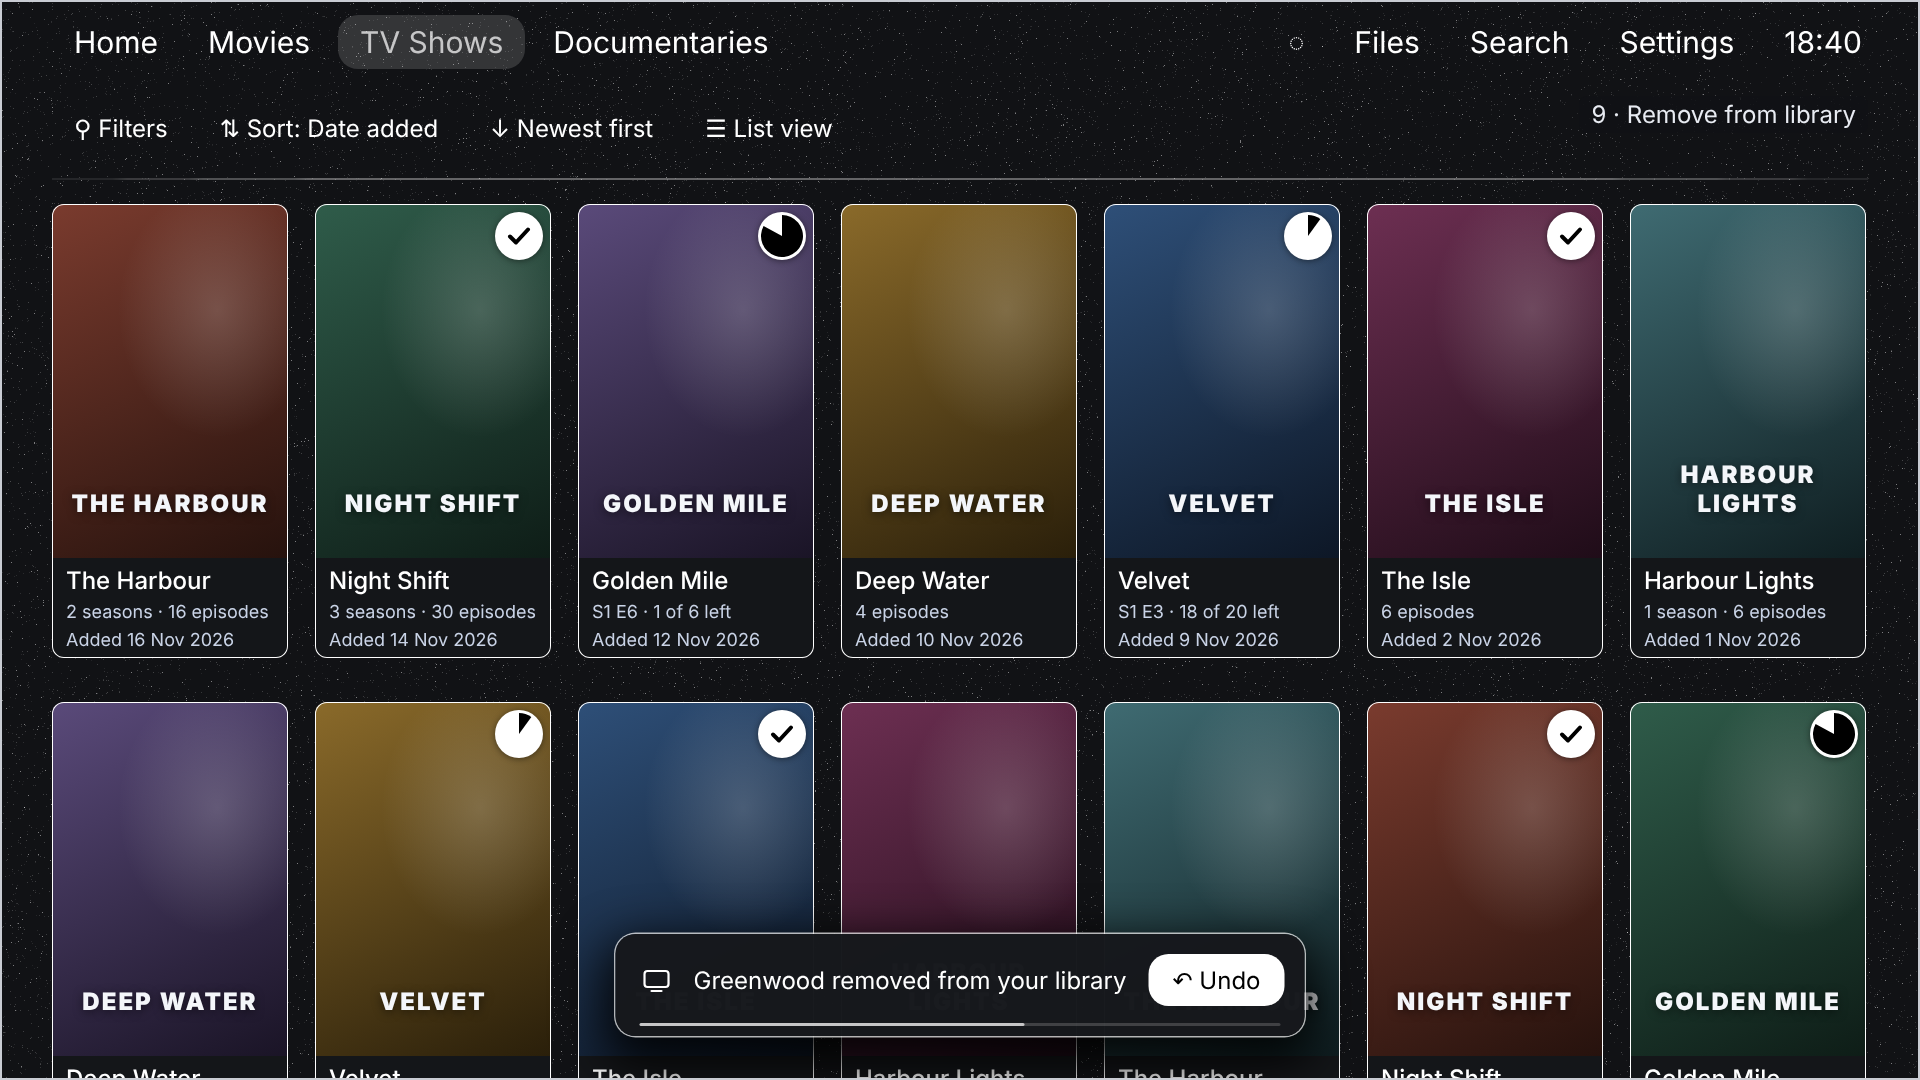
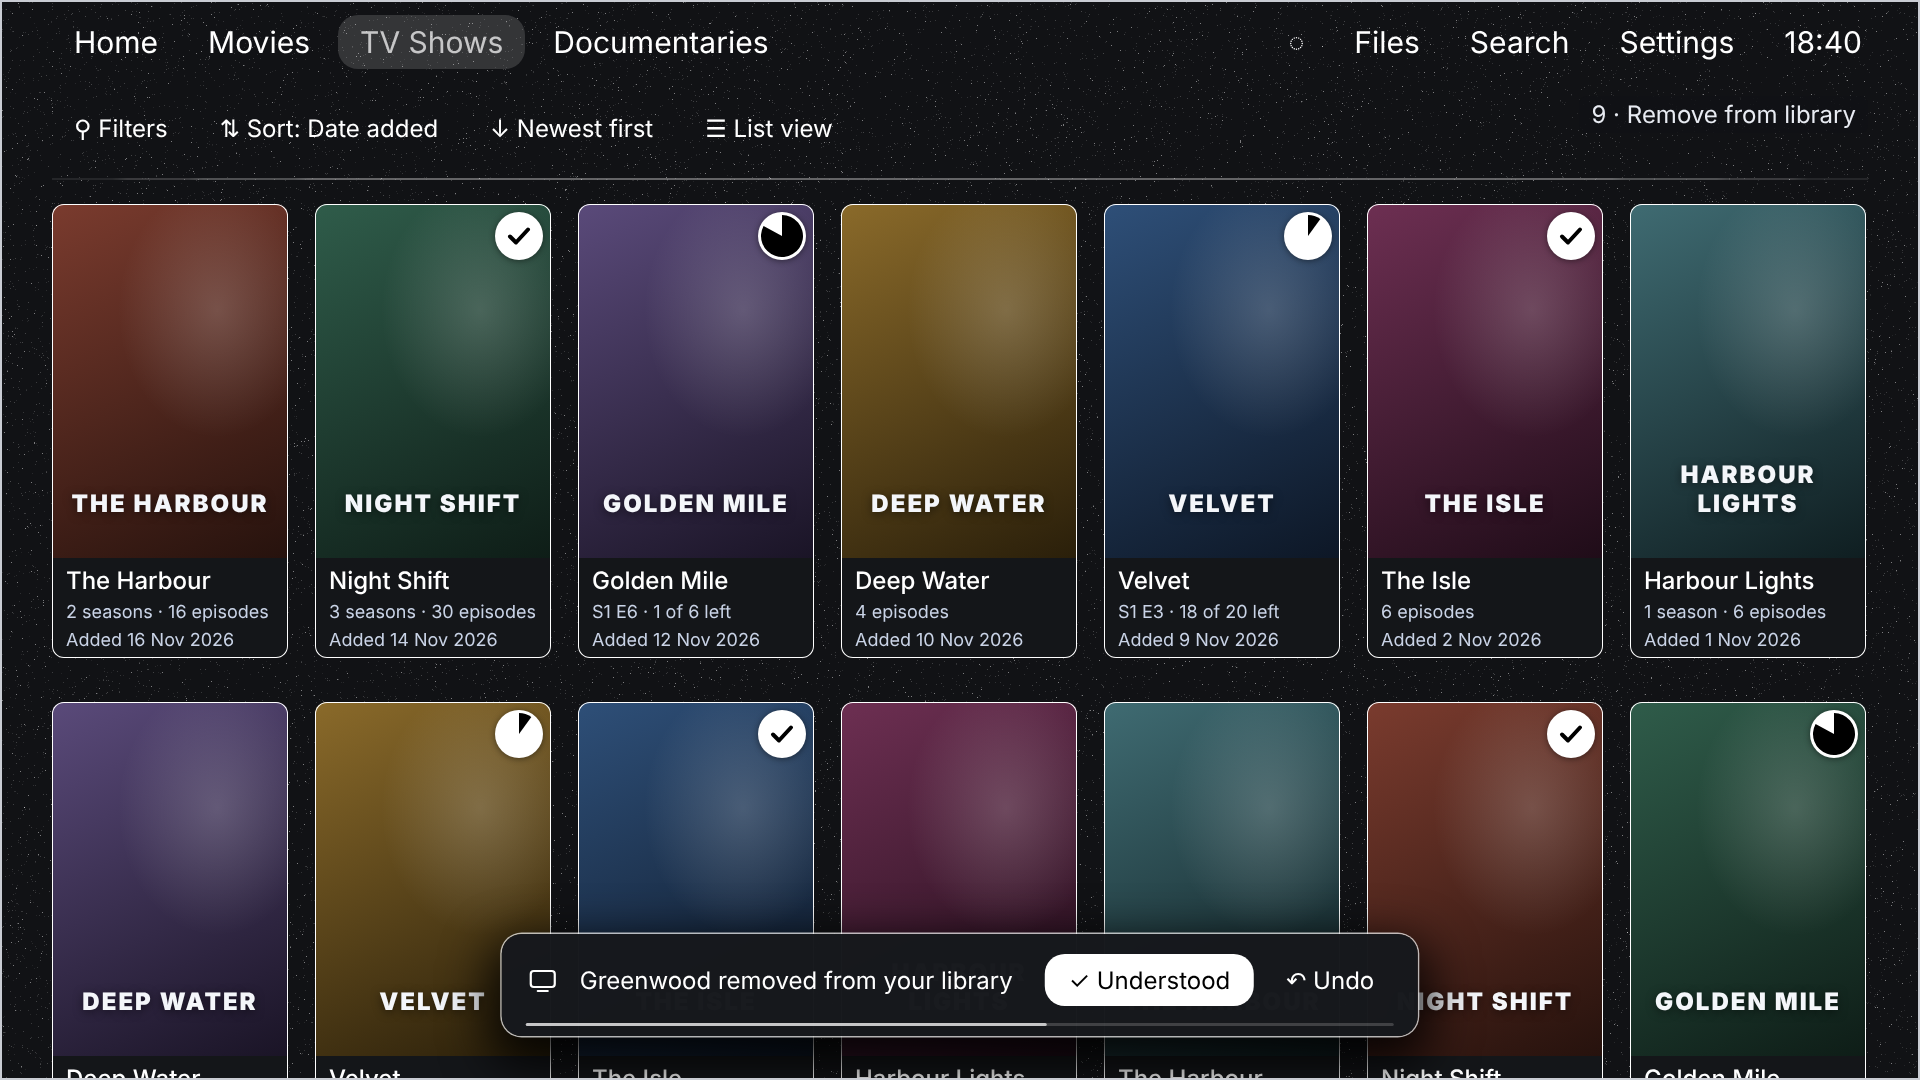
Undo notice: Understood (focused) and Undo (owner)
Claude-Session: https://claude.ai/code/session_01FtDZqYQTGsHUL41wBkAMmc

Changed region(s): [[0.25, 0.8556, 0.75, 1.0]]

diff --git a/docs/design/proposals/rows-captions/undo-tv.html b/docs/design/proposals/rows-captions/undo-tv.html
@@ -41,7 +41,9 @@ body{background:#111215;font-family:Roboto,Inter,Arial,sans-serif;width:1920px}
 .cap2{position:absolute;left:52px;bottom:24px;color:#e8ebf2;font-size:24px;z-index:21;background:rgba(17,18,21,.85);padding:4px 12px;border-radius:8px}
 .toast{position:absolute;left:50%;bottom:44px;transform:translateX(-50%);display:flex;align-items:center;gap:22px;padding:20px 20px 30px 26px;border-radius:20px;background:rgba(22,24,28,.99);z-index:12;
  box-shadow:0 0 0 1.5px rgba(255,255,255,.7),0 18px 48px 12px rgba(0,0,0,.85);color:#fff;font-size:24px;white-space:nowrap}
-.toast .u{height:52px;padding:0 24px;border-radius:20px;background:#fff;color:#000;display:flex;align-items:center;gap:10px}
+.toast .u{height:52px;padding:0 24px;border-radius:20px;color:#fff;display:flex;align-items:center;gap:10px}
+.toast .u.f{background:#fff;color:#000}
+.toast .bts{display:flex;gap:8px;margin-left:10px}
 .toast .bar6{position:absolute;left:24px;right:24px;bottom:10px;height:3px;border-radius:2px;background:rgba(255,255,255,.18)}
 .toast .bar6 b{position:absolute;left:0;top:0;bottom:0;width:60%;border-radius:2px;background:rgba(255,255,255,.7)}
 </style></head><body>
@@ -68,9 +70,9 @@ const tvMenu=[["Playback",[["▷","Resume S1 E4",true],["↺","Play from the sta
 
 const TV1=TV.map((t,i)=>i==1?[t[0],"2 seasons · 16 episodes","Added 16 Nov 2026",'w']:t);
 const MOV2=MOV.filter((t,i)=>i!=1).concat([["Night Train","2021 · 1 h 49 min","Added 1 Nov 2026",null]]);
-document.getElementById('u1').innerHTML=page("Movies",MOV2,-1)+'<div class="toast"><svg width="30" height="30" viewBox="0 0 30 30"><rect x="4" y="5" width="22" height="20" rx="3" fill="none" stroke="#fff" stroke-width="2.2"/><path d="M9 5v20M21 5v20M4 11h5M4 19h5M21 11h5M21 19h5" stroke="#fff" stroke-width="2"/></svg> Golden Mile removed from your library<span class="u">↶ Undo</span><div class="bar6"><b></b></div></div><div class="cap2" style="bottom:auto;top:96px;left:auto;right:52px">8 · Remove a film from the library</div><div class="border"></div>';
+document.getElementById('u1').innerHTML=page("Movies",MOV2,-1)+'<div class="toast"><svg width="30" height="30" viewBox="0 0 30 30"><rect x="4" y="5" width="22" height="20" rx="3" fill="none" stroke="#fff" stroke-width="2.2"/><path d="M9 5v20M21 5v20M4 11h5M4 19h5M21 11h5M21 19h5" stroke="#fff" stroke-width="2"/></svg> Golden Mile removed from your library<span class="bts"><span class="u f">✓ Understood</span><span class="u">↶ Undo</span></span><div class="bar6"><b></b></div></div><div class="cap2" style="bottom:auto;top:96px;left:auto;right:52px">8 · Remove a film from the library</div><div class="border"></div>';
 const TV2=TV.filter((t,i)=>i!=1).concat([["Harbour Lights","1 season · 6 episodes","Added 1 Nov 2026",null]]);
-document.getElementById('u2').innerHTML=page("TV Shows",TV2,-1)+'<div class="toast"><svg width="30" height="30" viewBox="0 0 30 30"><rect x="3" y="6" width="24" height="16" rx="3" fill="none" stroke="#fff" stroke-width="2.2"/><path d="M10 26h10" stroke="#fff" stroke-width="2.2" stroke-linecap="round"/></svg> Greenwood removed from your library<span class="u">↶ Undo</span><div class="bar6"><b></b></div></div><div class="cap2" style="bottom:auto;top:96px;left:auto;right:52px">9 · Remove from library</div><div class="border"></div>';
+document.getElementById('u2').innerHTML=page("TV Shows",TV2,-1)+'<div class="toast"><svg width="30" height="30" viewBox="0 0 30 30"><rect x="3" y="6" width="24" height="16" rx="3" fill="none" stroke="#fff" stroke-width="2.2"/><path d="M10 26h10" stroke="#fff" stroke-width="2.2" stroke-linecap="round"/></svg> Greenwood removed from your library<span class="bts"><span class="u f">✓ Understood</span><span class="u">↶ Undo</span></span><div class="bar6"><b></b></div></div><div class="cap2" style="bottom:auto;top:96px;left:auto;right:52px">9 · Remove from library</div><div class="border"></div>';
 function rng(seed){return()=>{seed|=0;seed=seed+0x6D2B79F5|0;let t=Math.imul(seed^seed>>>15,1|seed);t=t+Math.imul(t^t>>>7,61|t)^t;return((t^t>>>14)>>>0)/4294967296}}
 document.querySelectorAll('.screen').forEach(sc=>{const cv=document.createElement('canvas');cv.width=1920;cv.height=1080;sc.prepend(cv);
  const g=cv.getContext('2d'),r=rng(20261118),n=1920*1080*20/1000;g.fillStyle='#111215';g.fillRect(0,0,1920,1080);for(let i=0;i<n;i++){const x=r()*1920|0,y=r()*1080|0,a=r()<1/7?.45:.07+r()*.15;g.fillStyle=`rgba(255,255,255,${a})`;g.fillRect(x,y,1,1)}});

diff --git a/docs/design/RULES.md b/docs/design/RULES.md
@@ -157,8 +157,9 @@ One brightness scale that follows your path, everywhere, top bar and tabs includ
   and menu that sums something up follows this.
 - **Undo notice (owner, 20 Nov; `rows-captions/tv/20`, `21`):** after an instant action that can be put back (Remove
   from library, Hide a row, Clear history, Remove a connection): a box at the foot, centred, in the menu look (§11);
-  a monochrome icon for what it was (film, TV show, row …) left of "<Title> removed from your library"; an **Undo**
-  button in the 52 px shape; a thin line along its foot runs down over 6 seconds, with clear room between it and the
+  a monochrome icon for what it was (film, TV show, row …) left of "<Title> removed from your library"; two buttons
+  in the 52 px shape, **Understood** (focused; closes it, focus back to the next item) and **Undo** (owner, 20 Nov: an
+  accidental OK can never undo); Back or six seconds close it too, focus back to the page; a thin line along its foot runs down over 6 seconds, with clear room between it and the
   button. Not for harmless toggles such as Mark as watched, which flip in their own menu instead.
 - **Technical facts line (owner, 20 Nov):** wherever files are told apart (delete, choose a version, Files), show the
   first three a file has of **Edition · Resolution · HDR · Sound · Video codec**; a missing one lets the next move up.

diff --git a/docs/0.158/BRIEF_0158_B.md b/docs/0.158/BRIEF_0158_B.md
@@ -194,7 +194,8 @@ Users and tags, Guest (still being designed). Onboarding (later). The Trakt list
   with the three switches (folder switch on by default and only removing an empty folder); totals; the button names
   the count. This replaces D1's "one notice" wording: the list is how nothing gets left behind. Times as "2 h 22 min".
 - **Undo notice and Mark as watched (owner, 20 Nov; RULES §7b; LIBRARY.md › Long-press):** the shared Undo notice gets
-  a film / TV show icon left of the title, more height so its 6-second line clears the 52 px Undo button; Mark as
+  a film / TV show icon left of the title; two buttons, **Understood** (focused, closes it, focus to the next poster)
+  and **Undo**; more height so its 6-second line clears the buttons; Back or 6 seconds close it, focus to the page; Mark as
   watched has no notice and its menu row flips to Mark as unwatched on a watched title.
   (The "To fix" row in Library Care is approved but waits for the Files review: do not build it yet.)
 - **Empty library pages (owner, 19 Nov; LIBRARY.md › Empty pages):** "No movies yet" (never "films"), "Add a folder,
